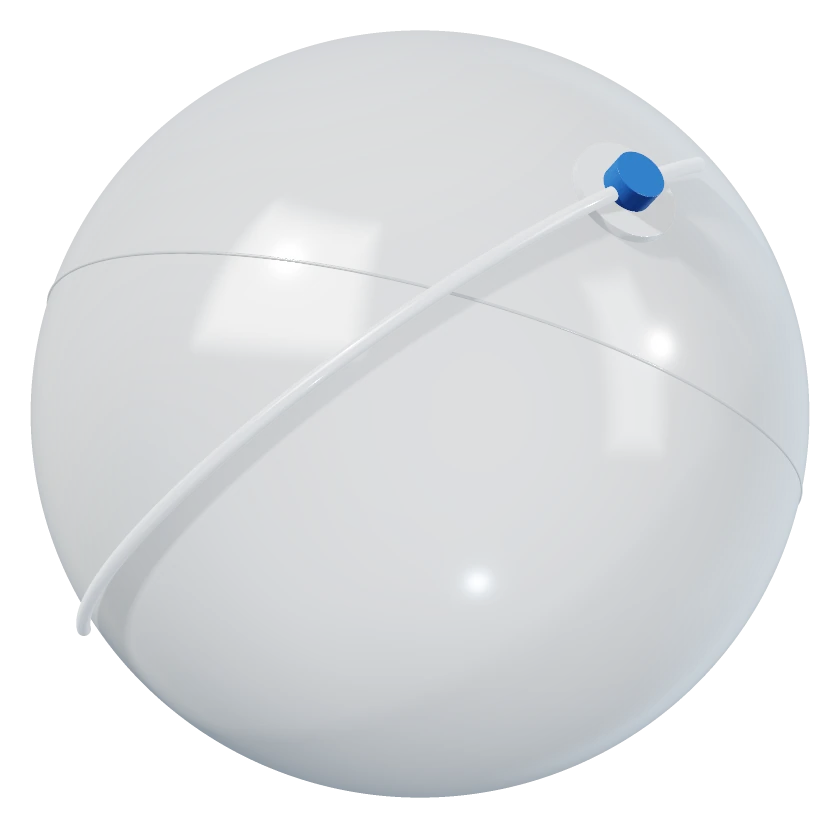
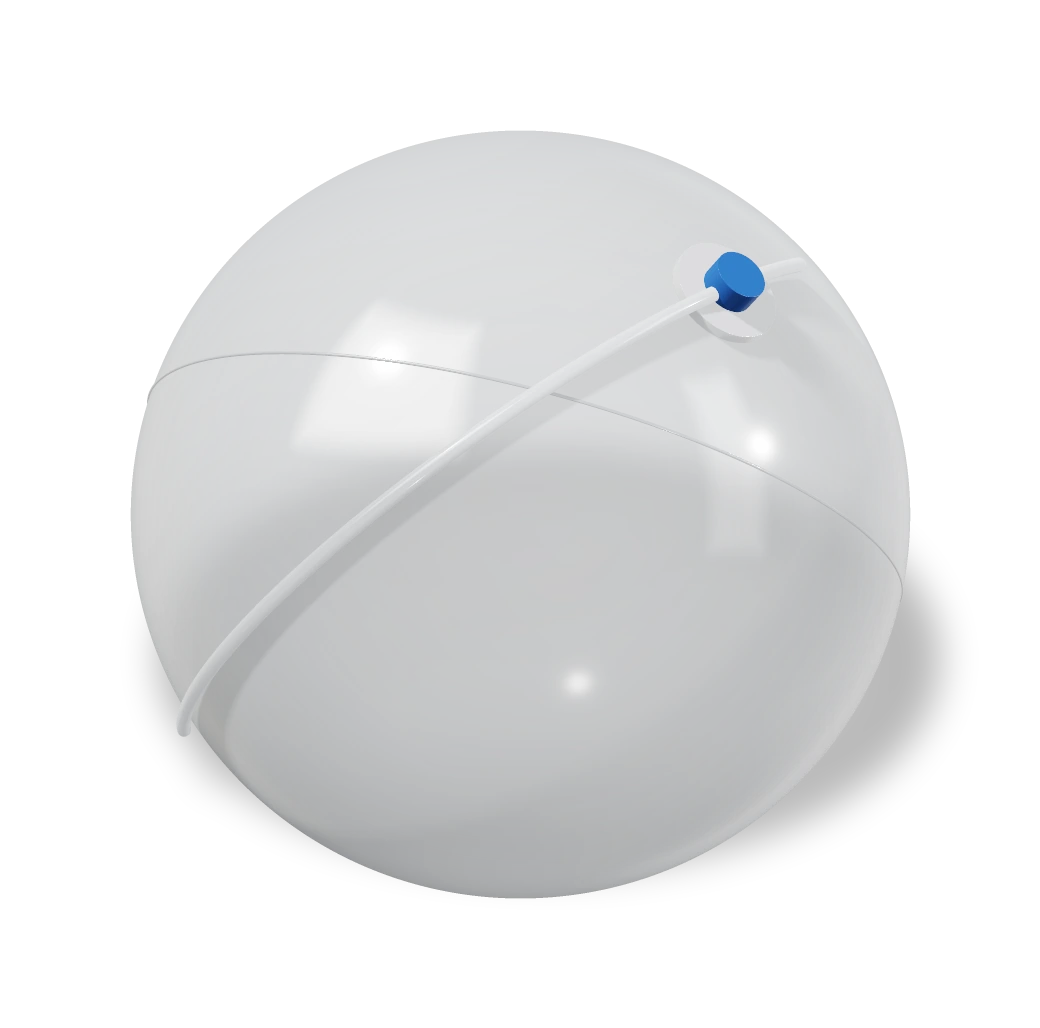
helioscopie TOP-FIX B: one-colour H1; balloon re-rendered with neutral light (render_b.js), soft cast shadow baked in, no slate or cool glow, neutral falloff; step 5 scroll
Claude-Session: https://claude.ai/code/session_014388NG1Z4TasdQgjB48bmb

diff --git a/_kit/home/helioscopie/render_b.js b/_kit/home/helioscopie/render_b.js
@@ -1,0 +1,114 @@
+// VARIANT B (TOP-FIX 2026-11-27; run: node render_b.js out.png 1101 1101 3, crop to the sent hero's 840x828 frame, then python3 shadow.py out.png hero.webp 100): render.js with neutral light only (BL grey instead of blue); the key stays upper left = the headline side.
+/* Offline render of the Helioscopie hero (HOME_BRIEF update option c, PRINCIPLES DS/DD/DT): HELIOSPHERE, the firm's own
+   air-filled intragastric balloon, as on helioscopie.fr/heliosphere (the product packshot): a pearly, translucent silicone sphere
+   (about 105 mm, under 15 g) with its blue filling valve set in a clear round patch and the thin clear filling tube running over
+   its surface. One calm object on the page ink. Raymarched in GLSL with studio softbox reflections and a milky translucency;
+   real alpha, no box edge (DJ/DP).
+   Run: node _kit/home/helioscopie/render.js out.png 1200 1200 3 */
+const {chromium}=require('playwright');const fs=require('fs');const path=require('path');
+const W=+(process.argv[3]||1200),H=+(process.argv[4]||1200),SS=+(process.argv[5]||3);
+const FS=`
+precision highp float;
+uniform vec2 R;
+#define PI 3.14159265
+mat3 rx(float a){float c=cos(a),s=sin(a);return mat3(1,0,0,0,c,s,0,-s,c);}
+mat3 ry(float a){float c=cos(a),s=sin(a);return mat3(c,0,-s,0,1,0,s,0,c);}
+int MID=0;
+vec3 V=normalize(vec3(.46,.50,.73));
+vec3 SN=normalize(vec3(.25,.93,-.27)); /* the bag's weld seam */
+vec3 TN;  /* normal of the plane holding the tube's great circle (contains V) */
+float A0=-.3,A1=2.05; /* tube arc, angles in that plane measured from V */
+vec3 E1,E2;
+float tube(vec3 p){float h=dot(p,TN);vec3 q=p-TN*h;float ang=atan(dot(q,E2),dot(q,E1));
+  float rr=1.026;
+  if(ang>=A0&&ang<=A1)return length(vec2(length(q)-rr,h))-.017;
+  float ae=ang<A0?A0:A1;vec3 e=(E1*cos(ae)+E2*sin(ae))*rr;return length(p-e)-.017;}
+float map(vec3 p){
+  /* a sphere, very slightly flattened along one axis, as an inflated bag is */
+  vec3 ps=p*vec3(1.,1.015,1.);float body=length(ps)-1.;
+  float t=tube(p);
+  float vz=dot(p,V);vec3 vr=p-V*vz;
+  float patch=max(length(vr)-.125,abs(vz-1.003)-.008);patch-= .004;
+  float plug=max(length(vr)-.052,abs(vz-1.03)-.034)-.010;
+  float seam=length(vec2(length(p-SN*dot(p,SN))-1.0,dot(p,SN)))-.0035;
+  float d=body;MID=0;
+  if(seam<d){d=seam;MID=4;}
+  if(patch<d){d=patch;MID=2;}
+  if(t<d){d=t;MID=1;}
+  if(plug<d){d=plug;MID=3;}
+  return d;}
+float mapd(vec3 p){int m=MID;float d=map(p);MID=m;return d;}
+vec3 nrm(vec3 p){vec2 e=vec2(.0006,0.);return normalize(vec3(mapd(p+e.xyy)-mapd(p-e.xyy),mapd(p+e.yxy)-mapd(p-e.yxy),mapd(p+e.yyx)-mapd(p-e.yyx)));}
+float box2(vec2 p,vec2 c,vec2 h,float s){vec2 d=abs(p-c)-h;float o=length(max(d,0.))+min(max(d.x,d.y),0.);return 1.-smoothstep(-s,s,o);}
+vec3 BL=vec3(.68,.68,.68); /* TOP-FIX B 2026-11-27: the cool fill, rim and bounce strip are neutral now (was .48,.70,.92) */
+vec3 env(vec3 d){float az=atan(d.x,d.z),el=asin(clamp(d.y,-1.,1.));vec3 c=vec3(.010,.016,.026)+vec3(.03,.04,.06)*max(d.y,0.);
+  c+=vec3(1.,.99,.97)*6.*box2(vec2(az,el),vec2(-.75,.62),vec2(.42,.30),.10);
+  c+=vec3(.95,.97,1.)*3.*box2(vec2(az,el),vec2(1.1,.22),vec2(.14,.36),.08);
+  c+=BL*.9*box2(vec2(az,el),vec2(2.4,.05),vec2(.40,.6),.30);
+  c+=vec3(1.,.93,.62)*.35*box2(vec2(az,el),vec2(-2.2,-.1),vec2(.4,.4),.35);
+  c+=vec3(.7,.74,.8)*.25*box2(vec2(az,el),vec2(0.,-.9),vec2(1.2,.25),.4);
+  return c;}
+vec3 L1=normalize(vec3(-.6,.72,.55)),L2=normalize(vec3(.85,.25,.25)),L3=normalize(vec3(.2,-.6,.5));
+float ggx(vec3 n,vec3 v,vec3 l,float r){vec3 h=normalize(v+l);float a=r*r,nh=max(dot(n,h),0.);float dd=nh*nh*(a*a-1.)+1.;return a*a/(PI*dd*dd);}
+float sha(vec3 p,vec3 l){float r=1.,t=.01;for(int i=0;i<48;i++){float h=mapd(p+l*t);r=min(r,12.*h/t);t+=clamp(h,.003,.05);if(r<.01||t>2.)break;}return clamp(r,0.,1.);}
+vec3 aces(vec3 x){return clamp((x*(2.51*x+.03))/(x*(2.43*x+.59)+.14),0.,1.);}
+vec4 trace(vec3 ro,vec3 rd){
+  float t=0.,d;bool hit=false;
+  for(int i=0;i<260;i++){vec3 p=ro+rd*t;d=map(p);if(d<.0002){hit=true;break;}t+=d*.9;if(t>9.)break;}
+  if(!hit)return vec4(0.);
+  vec3 p=ro+rd*t,v=-rd;int m=MID;vec3 n=nrm(p);
+  float nv=max(dot(n,v),0.);
+  vec3 base;float rough,alpha,F0s;
+  if(m==0||m==4){base=vec3(.84,.87,.90);rough=.14;F0s=.06;alpha=.66+.32*pow(1.-nv,1.3);if(m==4)alpha=.9;}
+  else if(m==1){base=vec3(.86,.90,.95);rough=.10;F0s=.05;alpha=.80;}
+  else if(m==2){base=vec3(.93,.95,.97);rough=.10;F0s=.05;alpha=.92;}
+  else {base=vec3(.06,.26,.82);rough=.32;F0s=.05;alpha=1.;}
+  vec3 F=vec3(F0s)+(1.-F0s)*pow(1.-nv,5.);
+  vec3 col=vec3(0.);
+  for(int i=0;i<3;i++){vec3 l=i==0?L1:(i==1?L2:L3);float k=i==0?1.05:(i==1?.38:.14);vec3 lc=i==2?BL:vec3(1.);
+    float nl=dot(n,l);float dl=max(nl,0.);float wrap=max((nl+.6)/1.6,0.);float kd=(m==0||m==4)?.72:1.;float sh=(i==0&&m!=0)?mix(.4,1.,sha(p+n*.004,l)):1.;
+    if(i==0&&m==0)sh=mix(.55,1.,sha(p+n*.004,l));
+    col+=lc*k*sh*(kd*base/PI*2.6*mix(dl,wrap,m==3?.2:.65)+F*ggx(n,v,l,rough)*1.4);}
+  /* milky translucency: the bag glows softly where the key light passes through it */
+  if(m!=3){col+=vec3(1.,.98,.95)*.16*pow(max(dot(-n,L1)*.5+.5,0.),2.);col+=BL*.10*pow(1.-nv,2.);
+    /* light carried through the bag gathers low and opposite the key, as in a filled balloon */
+    col+=vec3(.95,.97,1.)*.22*smoothstep(.2,1.,dot(n,normalize(vec3(.35,-.75,.55))))*nv;
+    col+=vec3(1.)*.06*(n.y*.5+.5);}
+  vec3 r=reflect(rd,n);vec3 e=env(r);
+  col+=e*(F+(m==3?0.:.07))*(m==3?.5:.95);
+  col+=base*.03;
+  return vec4(col,alpha);}
+void main(){
+  vec3 a=normalize(cross(V,normalize(vec3(-.75,-.45,.35))));TN=a;E1=V;E2=normalize(cross(TN,E1));
+  vec3 ro0=vec3(0.,0.,5.6),ta=vec3(0.,0.,0.);
+  vec3 ww=normalize(ta-ro0),uu=normalize(cross(ww,vec3(0,1,0))),vv=cross(uu,ww);
+  vec4 acc=vec4(0.);float n=float(${SS});
+  for(int j=0;j<${SS};j++)for(int i=0;i<${SS};i++){
+    vec2 o=(vec2(float(i),float(j))+.5)/n-.5;
+    vec2 uv=(gl_FragCoord.xy+o-.5*R)/R.y;
+    vec3 rd=normalize(uv.x*uu+uv.y*vv+1.95*ww);
+    vec4 s=trace(ro0,rd);acc+=vec4(s.rgb*s.a,s.a);}
+  acc/=n*n;vec3 c=acc.a>0.?acc.rgb/acc.a:vec3(0.);
+  c=pow(aces(c*.80),vec3(1./2.2));
+  gl_FragColor=vec4(c,acc.a);}
+`;
+const PAGE=`<!doctype html><html><body style="margin:0;background:transparent"><canvas id="c" width="${W}" height="${H}"></canvas><script>
+const cv=document.getElementById('c');const gl=cv.getContext('webgl',{preserveDrawingBuffer:true,premultipliedAlpha:false,alpha:true,antialias:false});
+function sh(t,s){const o=gl.createShader(t);gl.shaderSource(o,s);gl.compileShader(o);if(!gl.getShaderParameter(o,gl.COMPILE_STATUS))throw Error(gl.getShaderInfoLog(o));return o}
+const pr=gl.createProgram();gl.attachShader(pr,sh(gl.VERTEX_SHADER,'attribute vec2 a;void main(){gl_Position=vec4(a,0.,1.);}'));
+gl.attachShader(pr,sh(gl.FRAGMENT_SHADER,${JSON.stringify(FS)}));gl.linkProgram(pr);if(!gl.getProgramParameter(pr,gl.LINK_STATUS))throw Error(gl.getProgramInfoLog(pr));gl.useProgram(pr);
+const b=gl.createBuffer();gl.bindBuffer(gl.ARRAY_BUFFER,b);gl.bufferData(gl.ARRAY_BUFFER,new Float32Array([-1,-1,1,-1,-1,1,1,1]),gl.STATIC_DRAW);
+const al=gl.getAttribLocation(pr,'a');gl.enableVertexAttribArray(al);gl.vertexAttribPointer(al,2,gl.FLOAT,false,0,0);
+gl.uniform2f(gl.getUniformLocation(pr,'R'),${W},${H});
+gl.clearColor(0,0,0,0);gl.clear(gl.COLOR_BUFFER_BIT);gl.enable(gl.SCISSOR_TEST);
+const T=40;let y=0;(function tile(){if(y>=${H}){window.__done=cv.toDataURL('image/png');return}gl.scissor(0,y,${W},T);gl.drawArrays(gl.TRIANGLE_STRIP,0,4);gl.finish();y+=T;setTimeout(tile,0)})();
+</script></body></html>`;
+(async()=>{
+const b=await chromium.launch({args:['--use-gl=angle','--use-angle=swiftshader','--enable-unsafe-swiftshader','--ignore-gpu-blocklist','--disable-gpu-watchdog']});
+const p=await b.newPage({viewport:{width:800,height:600}});
+p.on('console',m=>{if(!/Performance/.test(m.text()))console.log('page:',m.text())});p.on('pageerror',e=>{console.log('err',e.message);process.exit(1)});
+await p.setContent(PAGE);
+await p.waitForFunction(()=>window.__done,null,{timeout:3600000,polling:1000});
+const out=process.argv[2]||path.join(__dirname,'render.png');
+fs.writeFileSync(out,Buffer.from((await p.evaluate(()=>window.__done)).split(',')[1],'base64'));
+console.log('wrote',out);await b.close();})();

diff --git a/_kit/src/helioscopie.src.html b/_kit/src/helioscopie.src.html
@@ -883,6 +883,8 @@ div.mh-row{grid-template-columns:minmax(0,4fr) minmax(0,3fr) minmax(0,5fr) 24px}
 .ev dd{font-size:clamp(18px,1.4vw,21px)}
 .cinfo p a{font-size:.9em}
 .stat .v{white-space:nowrap}
+/* TOP-FIX 2026-11-27: the hero headline in one colour and one style (no italic accent second line) */
+.hero-h em{font-style:normal;font-weight:inherit;color:inherit}
 </style>
 </head>
 </head>
@@ -1127,11 +1129,12 @@ function unmask(s){if(!s)return;(s.masks||[]).forEach(function(m){m.style.overfl
 /*<R:field>*//* ================= HERO FIELD: a crafted render of Helioscopie's own product (HOME_BRIEF update 2c): HELIOSPHERE, the air-filled
    intragastric balloon, as on helioscopie.fr/heliosphere: a pearly translucent silicone sphere with its blue valve in a clear patch
    and the fine filling tube over its surface. Raymarched offline by render.js with real alpha, baked to hero.webp; here it breathes
-   in a slow Ken Burns drift with a faint cool glow behind it. On phones it sits in the top band and fades into the ink above the
+   in a slow Ken Burns drift. TOP-FIX B 2026-11-27: re-rendered by render_b.js with neutral light only, a soft cast shadow baked in
+   (shadow.py), no glow behind it. On phones it sits in the top band and fades into the ink above the
    text (CW). ================= */
 var field=(function(){
   var cv=$("#field"),c=cv.getContext("2d"),dpr=1,w=0,h=0,running=false,raf=0,t0=performance.now(),shown=false;
-  var IN={v:1},dim=1,dimT=1,SP={v:0},G=null,img=new Image(),ok=false;
+  var IN={v:1},dim=1,dimT=1,SP={v:0},HY=0,G=null,img=new Image(),ok=false;
   var BG="#0b1826";
   img.decoding="async";img.onload=function(){ok=true;if(!running)frame(true)};img.src="hero.webp";
   function h1r(){var r=0;["#view .hero h1","#view .hero .eyebrow","#view .hero-foot p"].forEach(function(q){var e=document.querySelector(q);if(!e)return;try{var tw=document.createTreeWalker(e,4),n,g=document.createRange();while(n=tw.nextNode()){if(!n.nodeValue.trim())continue;g.selectNodeContents(n);[].forEach.call(g.getClientRects(),function(b){if(b.width>0&&b.right>r)r=b.right})}}catch(_){}});return r}
@@ -1159,18 +1162,14 @@ var field=(function(){
     if(ok){
       /* a very slow breath: push in ~3% and drift up a touch over ~44s, eased back and forth (scaled about the image centre) */
       var k=.5-.5*Math.cos(t*Math.PI*2/44),sc=(1+.03*k)*(1+.035*(1-e));
-      var dw=G.iw*sc,dh=G.ih*sc,x=G.kx-dw*.5,y=G.ky-dh*.5-k*G.ih*.008-SP.v*G.ih*.05;
-      /* a low slate glow, painted across the WHOLE canvas (never inside the image rect alone), so no edge of the
-         baked render can read as a pasted box (DJ) */
-      var ggx=G.mob?w*.5:G.kx,ggy=G.mob?G.bh*.45:h*.48,ggr=Math.max(w,h)*.7;
-      var ag=c.createRadialGradient(ggx,ggy,0,ggx,ggy,ggr);
-      ag.addColorStop(0,"rgba(26,50,76,"+(.6*e).toFixed(3)+")");ag.addColorStop(.55,"rgba(16,34,54,"+(.3*e).toFixed(3)+")");ag.addColorStop(1,"rgba(11,24,38,0)");
-      c.fillStyle=ag;c.fillRect(0,0,w,h);
-      /* a faint cool glow behind the balloon, breathing every ~9s */
-      var pu=.5+.5*Math.sin(t*Math.PI*2/9),px=x+dw*LX,py=y+dh*LY,pr=dw*.52;
-      var rg=c.createRadialGradient(px,py,0,px,py,pr);rg.addColorStop(0,"rgba(124,192,236,"+((.07+.04*pu)*e).toFixed(3)+")");rg.addColorStop(1,"rgba(124,192,236,0)");
-      c.fillStyle=rg;c.fillRect(0,0,w,h);
-      c.globalAlpha=e;c.drawImage(img,x,y,dw,dh);c.globalAlpha=1;
+      var dw=G.iw*sc,dh=G.ih*sc,x=G.kx-dw*.5,y=G.ky-dh*.5-k*G.ih*.008+HY;
+      /* TOP-FIX B: a very faint neutral falloff on the ground, up and toward the headline side (about 2-3%, never coloured) */
+      var fx=G.mob?w*.5:x+dw*.25,fy=G.mob?G.bh*.4:y+dh*.25,fr=Math.max(w,h)*.62;
+      var fo=c.createRadialGradient(fx,fy,0,fx,fy,fr);fo.addColorStop(0,"rgba(255,255,255,"+(.03*e).toFixed(4)+")");fo.addColorStop(.55,"rgba(255,255,255,"+(.011*e).toFixed(4)+")");fo.addColorStop(1,"rgba(255,255,255,0)");
+      c.fillStyle=fo;c.fillRect(0,0,w,h);
+      /* hero.webp carries PAD px of transparent margin with the soft cast shadow, so the balloon lands where the sent render put it */
+      var PX=100/840,PY=100/828;
+      c.globalAlpha=e;c.drawImage(img,x-dw*PX,y-dh*PY,dw*(1+2*PX),dh*(1+2*PY));c.globalAlpha=1;
       if(!G.mob){
         /* the headline side stays quiet (DI): an ink wash from the left, a soft top and base */
         var lv=c.createLinearGradient(0,0,G.side+G.cw*.54,0);lv.addColorStop(0,"rgba(7,17,28,.95)");lv.addColorStop(.6,"rgba(7,17,28,.55)");lv.addColorStop(1,"rgba(7,17,28,0)");c.fillStyle=lv;c.fillRect(0,0,w,h);
@@ -1190,7 +1189,11 @@ var field=(function(){
   var rzT;addEventListener("resize",function(){clearTimeout(rzT);rzT=setTimeout(size,120)});size();
   /* re-measure the headline once the web fonts and the title reveal have settled, so the 100px clearance holds (DP) */
   try{document.fonts.ready.then(function(){setTimeout(size,60)})}catch(_){}setTimeout(size,2600);setTimeout(size,6500);
-  return {start:start,stop:stop,once:function(){frame(true)},setScroll:function(p){SP.v=Math.round(p*40)/40},
+  return {start:start,stop:stop,once:function(){frame(true)},setScroll:function(p){SP.v=p;
+    /* TOP-FIX step 5 (2026-11-27): the balloon scrolls up 1:1 with the hero on desktop (RECIPE_NOTES section 6), back home once the hero has left */
+    var hy=0,hr=G&&!G.mob?document.querySelector("#view #hero"):null;
+    if(hr){var b=hr.getBoundingClientRect();if(b.bottom>0)hy=Math.min(0,b.top)}
+    if(hy!==HY){HY=hy;frame(true)}},
     intro:function(d){if(RM){IN.v=1;return}IN.v=0;gsap.to(IN,{v:1,duration:d,ease:"power2.out"})},setDim:function(d){dimT=d},snapDim:function(d){dim=dimT=d},running:function(){return running},focus:function(){return G?[G.kx,G.ky]:[w/2,h/2]}};
 })();/*</R:field>*/
 
@@ -1529,7 +1532,7 @@ function preload(){
       var tl=gsap.timeline({onComplete:function(){pre.remove();unlockScroll();gsap.set("#hdr",{clearProps:"transform"});hdrTheme();failsafe()}});
       tl.to(o,{n:100,duration:.25,ease:"power1.out",onUpdate:upd},0)
         .to(wm.chars,{yPercent:-120,opacity:0,duration:.38,ease:"power3.in",stagger:.012},.08)
-        .to(["#pre .mk","#pre .cnt","#pre .bar","#pre .pl"],{opacity:0,duration:.3,ease:"power2.in"},.12)
+        .to("#pre .mk",{y:-64,opacity:0,duration:.62,ease:"power3.in"},.04).to(["#pre .cnt","#pre .bar","#pre .pl"],{y:-24,opacity:0,duration:.4,ease:"power2.in"},.1)
         .add(function(){field.intro(2);field.start()},mob?1.0:.95).fromTo("#field",{filter:"opacity(0)"},{filter:"opacity(1)",duration:1.8,ease:"power2.out",clearProps:"filter"},mob?1.0:.95)
         .add(function(){if(window._heroIn)window._heroIn.play()},mob?1.0:.95)
         .to(pre,{yPercent:-100,duration:.85,ease:"flow"},mob?.62:.42)

diff --git a/helioscopie/index.html b/helioscopie/index.html
@@ -889,6 +889,8 @@ div.mh-row{grid-template-columns:minmax(0,4fr) minmax(0,3fr) minmax(0,5fr) 24px}
 .ev dd{font-size:clamp(18px,1.4vw,21px)}
 .cinfo p a{font-size:.9em}
 .stat .v{white-space:nowrap}
+/* TOP-FIX 2026-11-27: the hero headline in one colour and one style (no italic accent second line) */
+.hero-h em{font-style:normal;font-weight:inherit;color:inherit}
 </style>
 </head>
 </head>
@@ -1693,11 +1695,12 @@ function unmask(s){if(!s)return;(s.masks||[]).forEach(function(m){m.style.overfl
 /*<R:field>*//* ================= HERO FIELD: a crafted render of Helioscopie's own product (HOME_BRIEF update 2c): HELIOSPHERE, the air-filled
    intragastric balloon, as on helioscopie.fr/heliosphere: a pearly translucent silicone sphere with its blue valve in a clear patch
    and the fine filling tube over its surface. Raymarched offline by render.js with real alpha, baked to hero.webp; here it breathes
-   in a slow Ken Burns drift with a faint cool glow behind it. On phones it sits in the top band and fades into the ink above the
+   in a slow Ken Burns drift. TOP-FIX B 2026-11-27: re-rendered by render_b.js with neutral light only, a soft cast shadow baked in
+   (shadow.py), no glow behind it. On phones it sits in the top band and fades into the ink above the
    text (CW). ================= */
 var field=(function(){
   var cv=$("#field"),c=cv.getContext("2d"),dpr=1,w=0,h=0,running=false,raf=0,t0=performance.now(),shown=false;
-  var IN={v:1},dim=1,dimT=1,SP={v:0},G=null,img=new Image(),ok=false;
+  var IN={v:1},dim=1,dimT=1,SP={v:0},HY=0,G=null,img=new Image(),ok=false;
   var BG="#0b1826";
   img.decoding="async";img.onload=function(){ok=true;if(!running)frame(true)};img.src="hero.webp";
   function h1r(){var r=0;["#view .hero h1","#view .hero .eyebrow","#view .hero-foot p"].forEach(function(q){var e=document.querySelector(q);if(!e)return;try{var tw=document.createTreeWalker(e,4),n,g=document.createRange();while(n=tw.nextNode()){if(!n.nodeValue.trim())continue;g.selectNodeContents(n);[].forEach.call(g.getClientRects(),function(b){if(b.width>0&&b.right>r)r=b.right})}}catch(_){}});return r}
@@ -1725,18 +1728,14 @@ var field=(function(){
     if(ok){
       /* a very slow breath: push in ~3% and drift up a touch over ~44s, eased back and forth (scaled about the image centre) */
       var k=.5-.5*Math.cos(t*Math.PI*2/44),sc=(1+.03*k)*(1+.035*(1-e));
-      var dw=G.iw*sc,dh=G.ih*sc,x=G.kx-dw*.5,y=G.ky-dh*.5-k*G.ih*.008-SP.v*G.ih*.05;
-      /* a low slate glow, painted across the WHOLE canvas (never inside the image rect alone), so no edge of the
-         baked render can read as a pasted box (DJ) */
-      var ggx=G.mob?w*.5:G.kx,ggy=G.mob?G.bh*.45:h*.48,ggr=Math.max(w,h)*.7;
-      var ag=c.createRadialGradient(ggx,ggy,0,ggx,ggy,ggr);
-      ag.addColorStop(0,"rgba(26,50,76,"+(.6*e).toFixed(3)+")");ag.addColorStop(.55,"rgba(16,34,54,"+(.3*e).toFixed(3)+")");ag.addColorStop(1,"rgba(11,24,38,0)");
-      c.fillStyle=ag;c.fillRect(0,0,w,h);
-      /* a faint cool glow behind the balloon, breathing every ~9s */
-      var pu=.5+.5*Math.sin(t*Math.PI*2/9),px=x+dw*LX,py=y+dh*LY,pr=dw*.52;
-      var rg=c.createRadialGradient(px,py,0,px,py,pr);rg.addColorStop(0,"rgba(124,192,236,"+((.07+.04*pu)*e).toFixed(3)+")");rg.addColorStop(1,"rgba(124,192,236,0)");
-      c.fillStyle=rg;c.fillRect(0,0,w,h);
-      c.globalAlpha=e;c.drawImage(img,x,y,dw,dh);c.globalAlpha=1;
+      var dw=G.iw*sc,dh=G.ih*sc,x=G.kx-dw*.5,y=G.ky-dh*.5-k*G.ih*.008+HY;
+      /* TOP-FIX B: a very faint neutral falloff on the ground, up and toward the headline side (about 2-3%, never coloured) */
+      var fx=G.mob?w*.5:x+dw*.25,fy=G.mob?G.bh*.4:y+dh*.25,fr=Math.max(w,h)*.62;
+      var fo=c.createRadialGradient(fx,fy,0,fx,fy,fr);fo.addColorStop(0,"rgba(255,255,255,"+(.03*e).toFixed(4)+")");fo.addColorStop(.55,"rgba(255,255,255,"+(.011*e).toFixed(4)+")");fo.addColorStop(1,"rgba(255,255,255,0)");
+      c.fillStyle=fo;c.fillRect(0,0,w,h);
+      /* hero.webp carries PAD px of transparent margin with the soft cast shadow, so the balloon lands where the sent render put it */
+      var PX=100/840,PY=100/828;
+      c.globalAlpha=e;c.drawImage(img,x-dw*PX,y-dh*PY,dw*(1+2*PX),dh*(1+2*PY));c.globalAlpha=1;
       if(!G.mob){
         /* the headline side stays quiet (DI): an ink wash from the left, a soft top and base */
         var lv=c.createLinearGradient(0,0,G.side+G.cw*.54,0);lv.addColorStop(0,"rgba(7,17,28,.95)");lv.addColorStop(.6,"rgba(7,17,28,.55)");lv.addColorStop(1,"rgba(7,17,28,0)");c.fillStyle=lv;c.fillRect(0,0,w,h);
@@ -1756,7 +1755,11 @@ var field=(function(){
   var rzT;addEventListener("resize",function(){clearTimeout(rzT);rzT=setTimeout(size,120)});size();
   /* re-measure the headline once the web fonts and the title reveal have settled, so the 100px clearance holds (DP) */
   try{document.fonts.ready.then(function(){setTimeout(size,60)})}catch(_){}setTimeout(size,2600);setTimeout(size,6500);
-  return {start:start,stop:stop,once:function(){frame(true)},setScroll:function(p){SP.v=Math.round(p*40)/40},
+  return {start:start,stop:stop,once:function(){frame(true)},setScroll:function(p){SP.v=p;
+    /* TOP-FIX step 5 (2026-11-27): the balloon scrolls up 1:1 with the hero on desktop (RECIPE_NOTES section 6), back home once the hero has left */
+    var hy=0,hr=G&&!G.mob?document.querySelector("#view #hero"):null;
+    if(hr){var b=hr.getBoundingClientRect();if(b.bottom>0)hy=Math.min(0,b.top)}
+    if(hy!==HY){HY=hy;frame(true)}},
     intro:function(d){if(RM){IN.v=1;return}IN.v=0;gsap.to(IN,{v:1,duration:d,ease:"power2.out"})},setDim:function(d){dimT=d},snapDim:function(d){dim=dimT=d},running:function(){return running},focus:function(){return G?[G.kx,G.ky]:[w/2,h/2]}};
 })();/*</R:field>*/
 
@@ -2095,7 +2098,7 @@ function preload(){
       var tl=gsap.timeline({onComplete:function(){pre.remove();unlockScroll();gsap.set("#hdr",{clearProps:"transform"});hdrTheme();failsafe()}});
       tl.to(o,{n:100,duration:.25,ease:"power1.out",onUpdate:upd},0)
         .to(wm.chars,{yPercent:-120,opacity:0,duration:.38,ease:"power3.in",stagger:.012},.08)
-        .to(["#pre .mk","#pre .cnt","#pre .bar","#pre .pl"],{opacity:0,duration:.3,ease:"power2.in"},.12)
+        .to("#pre .mk",{y:-64,opacity:0,duration:.62,ease:"power3.in"},.04).to(["#pre .cnt","#pre .bar","#pre .pl"],{y:-24,opacity:0,duration:.4,ease:"power2.in"},.1)
         .add(function(){field.intro(2);field.start()},mob?1.0:.95).fromTo("#field",{filter:"opacity(0)"},{filter:"opacity(1)",duration:1.8,ease:"power2.out",clearProps:"filter"},mob?1.0:.95)
         .add(function(){if(window._heroIn)window._heroIn.play()},mob?1.0:.95)
         .to(pre,{yPercent:-100,duration:.85,ease:"flow"},mob?.62:.42)

diff --git a/_kit/home/helioscopie/field.js b/_kit/home/helioscopie/field.js
@@ -1,11 +1,12 @@
 /* ================= HERO FIELD: a crafted render of Helioscopie's own product (HOME_BRIEF update 2c): HELIOSPHERE, the air-filled
    intragastric balloon, as on helioscopie.fr/heliosphere: a pearly translucent silicone sphere with its blue valve in a clear patch
    and the fine filling tube over its surface. Raymarched offline by render.js with real alpha, baked to hero.webp; here it breathes
-   in a slow Ken Burns drift with a faint cool glow behind it. On phones it sits in the top band and fades into the ink above the
+   in a slow Ken Burns drift. TOP-FIX B 2026-11-27: re-rendered by render_b.js with neutral light only, a soft cast shadow baked in
+   (shadow.py), no glow behind it. On phones it sits in the top band and fades into the ink above the
    text (CW). ================= */
 var field=(function(){
   var cv=$("#field"),c=cv.getContext("2d"),dpr=1,w=0,h=0,running=false,raf=0,t0=performance.now(),shown=false;
-  var IN={v:1},dim=1,dimT=1,SP={v:0},G=null,img=new Image(),ok=false;
+  var IN={v:1},dim=1,dimT=1,SP={v:0},HY=0,G=null,img=new Image(),ok=false;
   var BG="#0b1826";
   img.decoding="async";img.onload=function(){ok=true;if(!running)frame(true)};img.src="hero.webp";
   function h1r(){var r=0;["#view .hero h1","#view .hero .eyebrow","#view .hero-foot p"].forEach(function(q){var e=document.querySelector(q);if(!e)return;try{var tw=document.createTreeWalker(e,4),n,g=document.createRange();while(n=tw.nextNode()){if(!n.nodeValue.trim())continue;g.selectNodeContents(n);[].forEach.call(g.getClientRects(),function(b){if(b.width>0&&b.right>r)r=b.right})}}catch(_){}});return r}
@@ -33,18 +34,14 @@ var field=(function(){
     if(ok){
       /* a very slow breath: push in ~3% and drift up a touch over ~44s, eased back and forth (scaled about the image centre) */
       var k=.5-.5*Math.cos(t*Math.PI*2/44),sc=(1+.03*k)*(1+.035*(1-e));
-      var dw=G.iw*sc,dh=G.ih*sc,x=G.kx-dw*.5,y=G.ky-dh*.5-k*G.ih*.008-SP.v*G.ih*.05;
-      /* a low slate glow, painted across the WHOLE canvas (never inside the image rect alone), so no edge of the
-         baked render can read as a pasted box (DJ) */
-      var ggx=G.mob?w*.5:G.kx,ggy=G.mob?G.bh*.45:h*.48,ggr=Math.max(w,h)*.7;
-      var ag=c.createRadialGradient(ggx,ggy,0,ggx,ggy,ggr);
-      ag.addColorStop(0,"rgba(26,50,76,"+(.6*e).toFixed(3)+")");ag.addColorStop(.55,"rgba(16,34,54,"+(.3*e).toFixed(3)+")");ag.addColorStop(1,"rgba(11,24,38,0)");
-      c.fillStyle=ag;c.fillRect(0,0,w,h);
-      /* a faint cool glow behind the balloon, breathing every ~9s */
-      var pu=.5+.5*Math.sin(t*Math.PI*2/9),px=x+dw*LX,py=y+dh*LY,pr=dw*.52;
-      var rg=c.createRadialGradient(px,py,0,px,py,pr);rg.addColorStop(0,"rgba(124,192,236,"+((.07+.04*pu)*e).toFixed(3)+")");rg.addColorStop(1,"rgba(124,192,236,0)");
-      c.fillStyle=rg;c.fillRect(0,0,w,h);
-      c.globalAlpha=e;c.drawImage(img,x,y,dw,dh);c.globalAlpha=1;
+      var dw=G.iw*sc,dh=G.ih*sc,x=G.kx-dw*.5,y=G.ky-dh*.5-k*G.ih*.008+HY;
+      /* TOP-FIX B: a very faint neutral falloff on the ground, up and toward the headline side (about 2-3%, never coloured) */
+      var fx=G.mob?w*.5:x+dw*.25,fy=G.mob?G.bh*.4:y+dh*.25,fr=Math.max(w,h)*.62;
+      var fo=c.createRadialGradient(fx,fy,0,fx,fy,fr);fo.addColorStop(0,"rgba(255,255,255,"+(.03*e).toFixed(4)+")");fo.addColorStop(.55,"rgba(255,255,255,"+(.011*e).toFixed(4)+")");fo.addColorStop(1,"rgba(255,255,255,0)");
+      c.fillStyle=fo;c.fillRect(0,0,w,h);
+      /* hero.webp carries PAD px of transparent margin with the soft cast shadow, so the balloon lands where the sent render put it */
+      var PX=100/840,PY=100/828;
+      c.globalAlpha=e;c.drawImage(img,x-dw*PX,y-dh*PY,dw*(1+2*PX),dh*(1+2*PY));c.globalAlpha=1;
       if(!G.mob){
         /* the headline side stays quiet (DI): an ink wash from the left, a soft top and base */
         var lv=c.createLinearGradient(0,0,G.side+G.cw*.54,0);lv.addColorStop(0,"rgba(7,17,28,.95)");lv.addColorStop(.6,"rgba(7,17,28,.55)");lv.addColorStop(1,"rgba(7,17,28,0)");c.fillStyle=lv;c.fillRect(0,0,w,h);
@@ -64,6 +61,10 @@ var field=(function(){
   var rzT;addEventListener("resize",function(){clearTimeout(rzT);rzT=setTimeout(size,120)});size();
   /* re-measure the headline once the web fonts and the title reveal have settled, so the 100px clearance holds (DP) */
   try{document.fonts.ready.then(function(){setTimeout(size,60)})}catch(_){}setTimeout(size,2600);setTimeout(size,6500);
-  return {start:start,stop:stop,once:function(){frame(true)},setScroll:function(p){SP.v=Math.round(p*40)/40},
+  return {start:start,stop:stop,once:function(){frame(true)},setScroll:function(p){SP.v=p;
+    /* TOP-FIX step 5 (2026-11-27): the balloon scrolls up 1:1 with the hero on desktop (RECIPE_NOTES section 6), back home once the hero has left */
+    var hy=0,hr=G&&!G.mob?document.querySelector("#view #hero"):null;
+    if(hr){var b=hr.getBoundingClientRect();if(b.bottom>0)hy=Math.min(0,b.top)}
+    if(hy!==HY){HY=hy;frame(true)}},
     intro:function(d){if(RM){IN.v=1;return}IN.v=0;gsap.to(IN,{v:1,duration:d,ease:"power2.out"})},setDim:function(d){dimT=d},snapDim:function(d){dim=dimT=d},running:function(){return running},focus:function(){return G?[G.kx,G.ky]:[w/2,h/2]}};
 })();

diff --git a/_kit/home/helioscopie/extra.css b/_kit/home/helioscopie/extra.css
@@ -247,3 +247,5 @@ div.mh-row{grid-template-columns:minmax(0,4fr) minmax(0,3fr) minmax(0,5fr) 24px}
 .ev dd{font-size:clamp(18px,1.4vw,21px)}
 .cinfo p a{font-size:.9em}
 .stat .v{white-space:nowrap}
+/* TOP-FIX 2026-11-27: the hero headline in one colour and one style (no italic accent second line) */
+.hero-h em{font-style:normal;font-weight:inherit;color:inherit}

diff --git a/_kit/home/helioscopie/shadow.py b/_kit/home/helioscopie/shadow.py
@@ -1,0 +1,28 @@
+#!/usr/bin/env python3
+"""TOP-FIX B 2026-11-27 (RECIPE_NOTES section 3): bake a faint soft cast shadow into a padded copy of the hero image.
+The silhouette (alpha) is squashed to 55% height, shifted 40% of the height down and 3.5% of the width away from the
+key (the key is upper left on the page, so +x unless MIRROR), blurred by 2.2% of the width, 0.34 black; the object is
+composited over it unchanged, in PAD px of transparent margin on every side. The object's own pixels are not relit.
+Usage: python3 shadow.py in.webp out.webp [PAD] [mirror|-] [SQUASH=.55] [SHIFT=.40] [BLUR=.022]"""
+import sys, numpy as np
+from PIL import Image, ImageFilter
+src, out = sys.argv[1], sys.argv[2]
+PAD = int(sys.argv[3]) if len(sys.argv) > 3 else 120
+MIR = len(sys.argv) > 4 and sys.argv[4] == 'mirror'
+SQ = float(sys.argv[5]) if len(sys.argv) > 5 else 0.55
+SHF = float(sys.argv[6]) if len(sys.argv) > 6 else 0.40
+BL = float(sys.argv[7]) if len(sys.argv) > 7 else 0.022
+im = Image.open(src).convert('RGBA'); FW, FH = im.size
+a = np.asarray(im, float)[..., 3]/255
+sil = im.getchannel('A')
+sh = Image.new('L', (FW+2*PAD, FH+2*PAD), 0)
+dx = int(FW*0.035)*(-1 if MIR else 1)
+sh.paste(sil.resize((FW, int(FH*SQ))), (PAD+dx, PAD+int(FH*SHF)))
+sh = sh.filter(ImageFilter.GaussianBlur(FW*BL))
+sha = np.asarray(sh, float)/255*0.34
+obj = np.zeros((FH+2*PAD, FW+2*PAD, 3)); oa = np.zeros((FH+2*PAD, FW+2*PAD))
+obj[PAD:PAD+FH, PAD:PAD+FW] = np.asarray(im, float)[..., :3]/255; oa[PAD:PAD+FH, PAD:PAD+FW] = a
+outa = oa + sha*(1-oa)
+outc = np.where(outa[..., None] > 0, obj*oa[..., None]/np.maximum(outa[..., None], 1e-6), 0)
+Image.fromarray(np.dstack([outc*255, outa*255]).clip(0, 255).astype(np.uint8), 'RGBA').save(out, quality=92, method=6)
+print(out, FW, FH, 'pad', PAD)
